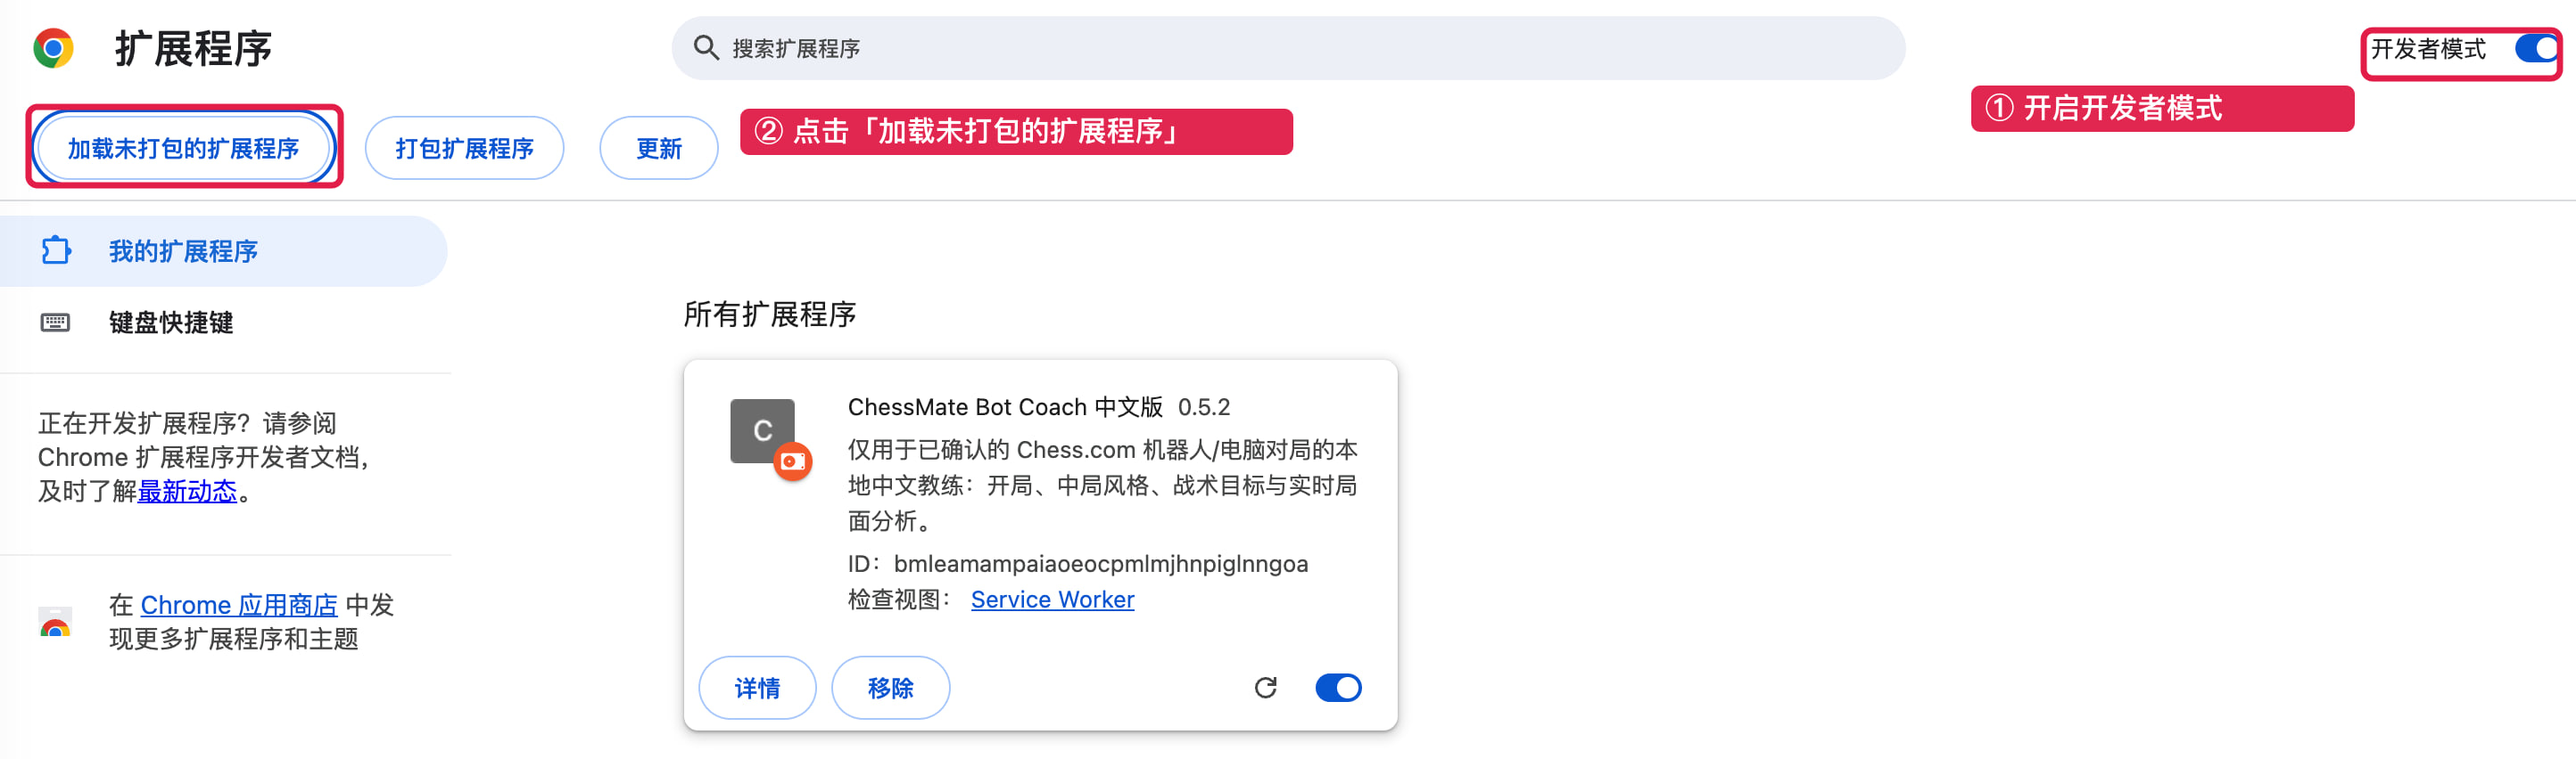
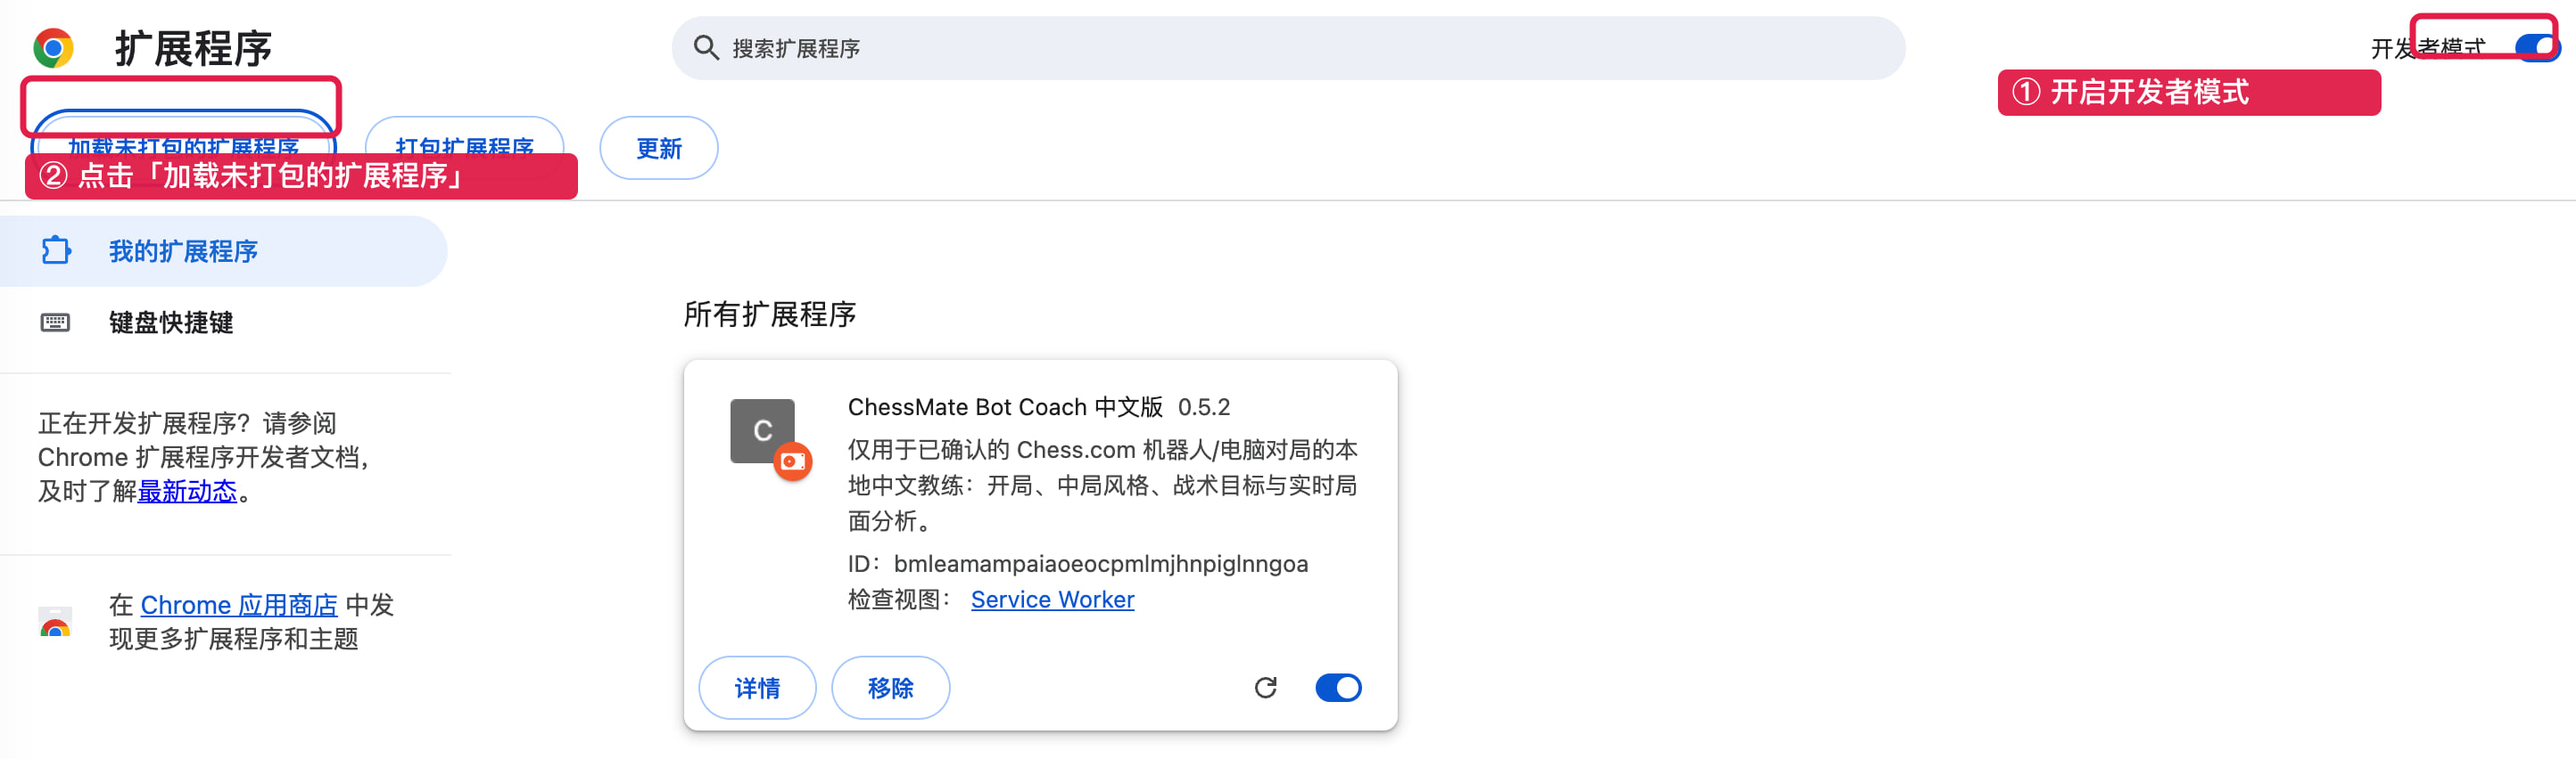
Bust cached installation screenshot with corrected v2 asset

Changed region(s): [[0.0, 0.0915, 0.2493, 0.2746], [0.7479, 0.0, 0.9972, 0.1831], [0.2805, 0.1221, 0.5298, 0.2136]]

diff --git a/README.md b/README.md
@@ -20,7 +20,7 @@
 5. 选择解压后包含 `manifest.json` 的扩展目录。
 6. 打开 [Chess.com Computer](https://www.chess.com/play/computer)，开始一盘机器人对局。
 
-![加载未打包扩展：开启开发者模式并点击加载未打包的扩展程序](docs/images/annotated/01-install-extension-annotated.jpg)
+![加载未打包扩展：开启开发者模式并点击加载未打包的扩展程序](docs/images/annotated/01-install-extension-annotated-v2.jpg)
 
 如果 Chrome 报错，请确认选择的是包含 `manifest.json` 的文件夹，而不是 ZIP 文件或它的上一级目录。
 
